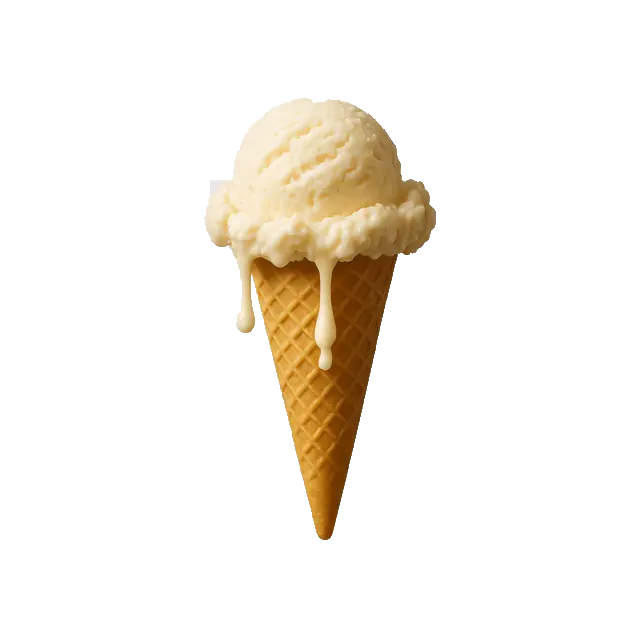
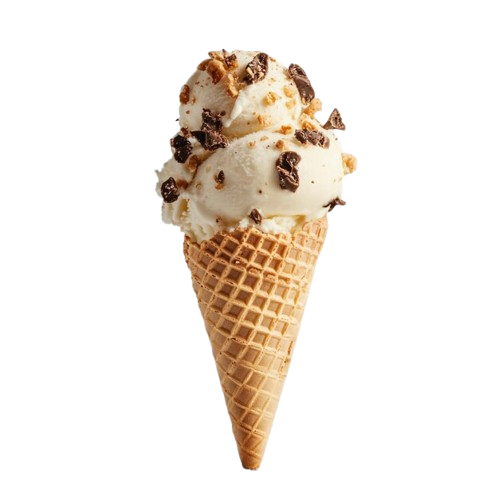
added flavour particles

Changed region(s): [[0.3006, 0.0902, 0.7214, 0.9619]]

diff --git a/src/App.jsx b/src/App.jsx
@@ -11,13 +11,17 @@ import vanillaThumb from './assets/vanilla-thumb.png'
 import chocolateThumb from './assets/chocolate-thumb.png'
 import blueberryThumb from './assets/blueberry-thumb.png'
 import raspberryThumb from './assets/raspberry-thumb.png'
+import vanillaParticle from './assets/vanilla.png'
+import chocolateParticle from './assets/chocolate.png'
+import blueberryParticle from './assets/blueberry.png'
+import raspberryParticle from './assets/raspberry.png'
 import gsap from 'gsap'
 
 const flavors = [
-  { name: 'Vanilla', img: vanillaThumb, cone: vanillaCone, desc: 'Classic, creamy, and smooth vanilla bean perfection.', bgColor: '#fcecb4' },
-  { name: 'Chocolate', img: chocolateThumb, cone: chocolateCone, desc: 'Rich, luxurious chocolate fudge delight.', bgColor: '#d4b098' },
-  { name: 'Blueberry', img: blueberryThumb, cone: blueberryCone, desc: 'Sweet, juicy, and refreshingly tangy, a burst of berry bliss.', bgColor: '#AECDEC' },
-  { name: 'Raspberry', img: raspberryThumb, cone: raspberryCone, desc: 'Tart and sweet raspberry swirl, perfectly refreshing.', bgColor: '#F6A6B2' },
+  { name: 'Vanilla', img: vanillaThumb, cone: vanillaCone, particle: vanillaParticle, desc: 'Classic, creamy, and smooth vanilla bean perfection.', bgColor: '#fcecb4' },
+  { name: 'Chocolate', img: chocolateThumb, cone: chocolateCone, particle: chocolateParticle, desc: 'Rich, luxurious chocolate fudge delight.', bgColor: '#d4b098' },
+  { name: 'Blueberry', img: blueberryThumb, cone: blueberryCone, particle: blueberryParticle, desc: 'Sweet, juicy, and refreshingly tangy, a burst of berry bliss.', bgColor: '#AECDEC' },
+  { name: 'Raspberry', img: raspberryThumb, cone: raspberryCone, particle: raspberryParticle, desc: 'Tart and sweet raspberry swirl, perfectly refreshing.', bgColor: '#F6A6B2' },
 ]
 
 /** Calculate scale needed for a 60px circle to cover the entire viewport */
@@ -39,6 +43,49 @@ const App = () => {
   const coneImgRef = useRef(null)
   const isAnimating = useRef(false)
   const wrapperRef = useRef(null)
+  const particleRefs = useRef([])
+
+  const scatterParticles = (particles, timeline, label) => {
+    // 7 positions: TL, TR, L, R, BL, BR, TC
+    const positions = [
+      { x: () => gsap.utils.random(-160, -100), y: () => gsap.utils.random(-220, -140) },
+      { x: () => gsap.utils.random(100, 160), y: () => gsap.utils.random(-220, -140) },
+      { x: () => gsap.utils.random(-220, -160), y: () => gsap.utils.random(-50, 50) },
+      { x: () => gsap.utils.random(160, 220), y: () => gsap.utils.random(-50, 50) },
+      { x: () => gsap.utils.random(-180, -120), y: () => gsap.utils.random(140, 220) },
+      { x: () => gsap.utils.random(120, 180), y: () => gsap.utils.random(140, 220) },
+      { x: () => gsap.utils.random(-50, 50), y: () => gsap.utils.random(-260, -180) },
+    ];
+
+    particles.forEach((p, i) => {
+      const pos = positions[i];
+      timeline.to(p, {
+        x: pos.x(),
+        y: pos.y(),
+        scale: gsap.utils.random(0.7, 1.2),
+        rotation: gsap.utils.random(-180, 180),
+        opacity: 1,
+        duration: gsap.utils.random(0.8, 1.2),
+        ease: 'back.out(1.2)'
+      }, `${label}+=${gsap.utils.random(0, 0.2)}`);
+    });
+  };
+
+  const retractParticles = (particles, timeline, label) => {
+    particles.forEach((p) => {
+      timeline.to(p, {
+        x: 0,
+        y: 0,
+        scale: 0.5,
+        opacity: 1, // Keep opacity 1 until fading fully
+        duration: gsap.utils.random(0.3, 0.5),
+        ease: 'power2.inOut'
+      }, `${label}+=${gsap.utils.random(0, 0.1)}`);
+
+      // Fade out separately slightly faster at the end of movement
+      timeline.to(p, { opacity: 0, duration: 0.2 }, `${label}+=0.3`);
+    });
+  };
 
   const tl = gsap.timeline()
 
@@ -59,7 +106,7 @@ const App = () => {
         scale: 0.9,
       }, 1)
       .to("#img img", {
-        rotateZ: 0,
+        rotateZ: -10,
         delay: 1,
         duration: 1.5,
         ease: 'power2'
@@ -81,7 +128,10 @@ const App = () => {
         duration: 0.5,
         delay: 2,
         ease: 'power2.out'
-      }, 1)
+      }, 1);
+
+    tl.addLabel("particlesScatter", 3);
+    scatterParticles(particleRefs.current, tl, "particlesScatter");
   });
 
   const handleFlavorClick = contextSafe((flavor) => {
@@ -113,6 +163,9 @@ const App = () => {
 
     master.addLabel("start")
 
+    // Retract particles first
+    retractParticles(particleRefs.current, master, "start")
+
     // 1. Circle expands (Liquid reveal)
     master.to(circle, {
       scale: requiredScale,
@@ -120,13 +173,13 @@ const App = () => {
       ease: "expo.inOut",
     }, "start")
 
-    // 2. Pause exactly 0.25s, then Old Image drops down and fades out cleanly
+    // 2. Pause exactly 0.4s (wait for particles to retract), then Old Image drops down and fades out cleanly
     master.to(img, {
       y: -150,
       opacity: 0,
       duration: 0.6,
       ease: "power2.inOut",
-    }, "start+=0.25")
+    }, "start+=0.4")
 
     master.to([heading, desc, btn], {
       y: -20,
@@ -136,8 +189,8 @@ const App = () => {
       stagger: 0.05,
     }, "start+=0.2")
 
-    // 3. Swap state EXACTLY at 0.9s (safely after the 0.85s image exit)
-    master.addLabel("swap", "start+=0.9")
+    // 3. Swap state EXACTLY at 1.05s (safely after the 1.0s image exit)
+    master.addLabel("swap", "start+=1.05")
 
     master.call(() => {
       setActiveFlavor(flavor)
@@ -148,7 +201,7 @@ const App = () => {
     master.set(circle, { scale: 0, opacity: 0 }, "start+=1.85")
 
     // 5. Explicitly prepare the new elements just before animating them in protecting against race conditions
-    master.addLabel("enter", "start+=0.95")
+    master.addLabel("enter", "start+=1.1")
 
     // Explicitly set starting values for the new image instead of fromTo
     master.set(img, { y: 150, opacity: 0, scale: 0.95 }, "enter")
@@ -159,7 +212,7 @@ const App = () => {
       y: 0,
       scale: 1,
       opacity: 1,
-      duration: 1.0,
+      duration: 0.8,
       ease: "back.out(1.5)"
     }, "enter+=0.05")
 
@@ -170,6 +223,10 @@ const App = () => {
       ease: "expo.out",
       stagger: 0.08,
     }, "enter+=0.2")
+
+    // 7. Scatter particles 1s after cone enters (cone enters at enter+0.05, so enter+1.05)
+    master.addLabel("scatterNewParticles", "enter+=1.05")
+    scatterParticles(particleRefs.current, master, "scatterNewParticles")
   });
 
   return (
@@ -215,7 +272,7 @@ const App = () => {
         <section id='hero' ref={heroRef} className=" mt-14 grid grid-cols-[260px_1fr_260px] grid-rows-[auto_1fr] items-start min-h-[calc(100vh-120px)] relative">
           {/* Left */}
           <div id='left' className="col-start-1 row-start-1 row-end-3 self-center z-[2]">
-            <h1 ref={headingRef} className="font-playfair font-black text-[64px] leading-none mb-4 text-text-main">{activeFlavor.name}</h1>
+            <h1 ref={headingRef} className="bungee-regular font-black text-[64px] leading-none mb-4 text-text-main">{activeFlavor.name}</h1>
             <p ref={descRef} className="text-[15px] leading-[1.6] text-text-muted max-w-[220px] mb-7">
               {activeFlavor.desc}
             </p>
@@ -223,28 +280,35 @@ const App = () => {
           </div>
 
           {/* Center */}
-          <div id='img' className="col-start-2 row-start-1 row-end-3 flex items-center justify-center z-1">
-            <img ref={coneImgRef} src={activeFlavor.cone} alt={`${activeFlavor.name} ice cream cone`} className="h-152  rotate-z-320  max-w-full w-auto object-contain -mt-5 drop-shadow-2xl" />
+          <div id='img' className="col-start-2 row-start-1 row-end-3 flex items-center justify-center z-1 relative">
+            {/* Particles */}
+            <div className="absolute inset-0 flex items-center justify-center pointer-events-none z-[-1]">
+              {Array(7).fill(0).map((_, i) => (
+                <img key={i} ref={el => particleRefs.current[i] = el} src={activeFlavor.particle} alt="" className="absolute w-20 h-20 object-contain opacity-0 scale-50" />
+              ))}
+            </div>
+
+            <img ref={coneImgRef} src={activeFlavor.cone} alt={`${activeFlavor.name} ice cream cone`} className="h-156  rotate-z-335  max-w-full w-auto object-contain -mt-5 drop-shadow-2xl" />
           </div>
 
           {/* Right */}
           <div className="col-start-3 row-start-1 row-end-3 flex flex-col items-end gap-10 pt-2.5">
             <div id='stats' className="flex gap-7">
               <div className="text-center">
-                <div className="font-playfair font-bold text-[38px] leading-none">10+</div>
+                <div className="bungee-regular font-bold text-[38px] leading-none">10+</div>
                 <div className="text-[18px] text-text-muted mt-1">Flavors</div>
               </div>
               <div className="text-center">
-                <div className="font-playfair font-bold text-[38px] leading-none">11K+</div>
+                <div className="bungee-regular font-bold text-[38px] leading-none">11K+</div>
                 <div className="text-[18px] text-text-muted mt-1">Reviews</div>
               </div>
               <div className="text-center">
-                <div className="font-playfair font-bold text-[38px] leading-none">30+</div>
+                <div className="bungee-regular font-bold text-[38px] leading-none">30+</div>
                 <div className="text-[18px] text-text-muted mt-1">Variations</div>
               </div>
             </div>
 
-            <div id='flavors' className="flex flex-col gap-1.5 mt-auto">
+            <div id='flavors' className="flex flex-col select-none gap-1.5 mt-auto">
               {flavors.map((f) => {
                 const isActive = f.name === activeFlavor.name
                 return (

diff --git a/index.html b/index.html
@@ -1,13 +1,19 @@
 <!doctype html>
 <html lang="en">
-  <head>
-    <meta charset="UTF-8" />
-    <link rel="icon" type="image/svg+xml" href="/favicon.svg" />
-    <meta name="viewport" content="width=device-width, initial-scale=1.0" />
-    <title>icecream</title>
-  </head>
-  <body>
-    <div id="root"></div>
-    <script type="module" src="/src/main.jsx"></script>
-  </body>
+
+<head>
+  <meta charset="UTF-8" />
+  <link rel="icon" type="image/svg+xml" href="/favicon.svg" />
+  <link rel="preconnect" href="https://fonts.googleapis.com">
+  <link rel="preconnect" href="https://fonts.gstatic.com" crossorigin>
+  <link href="https://fonts.googleapis.com/css2?family=Bungee&display=swap" rel="stylesheet">
+  <meta name="viewport" content="width=device-width, initial-scale=1.0" />
+  <title>icecream</title>
+</head>
+
+<body>
+  <div id="root"></div>
+  <script type="module" src="/src/main.jsx"></script>
+</body>
+
 </html>

diff --git a/src/App.css b/src/App.css
@@ -1,6 +1,13 @@
 @import "tailwindcss";
 @import url('https://fonts.googleapis.com/css2?family=Playfair+Display:wght@700;900&family=Inter:wght@400;500;600&display=swap');
 
+
+.bungee-regular {
+  font-family: "Bungee", sans-serif;
+  font-weight: 400;
+  font-style: normal;
+}
+
 @theme {
   --color-bg: #ede2f3;
   --color-bg-card: #f5eef9;